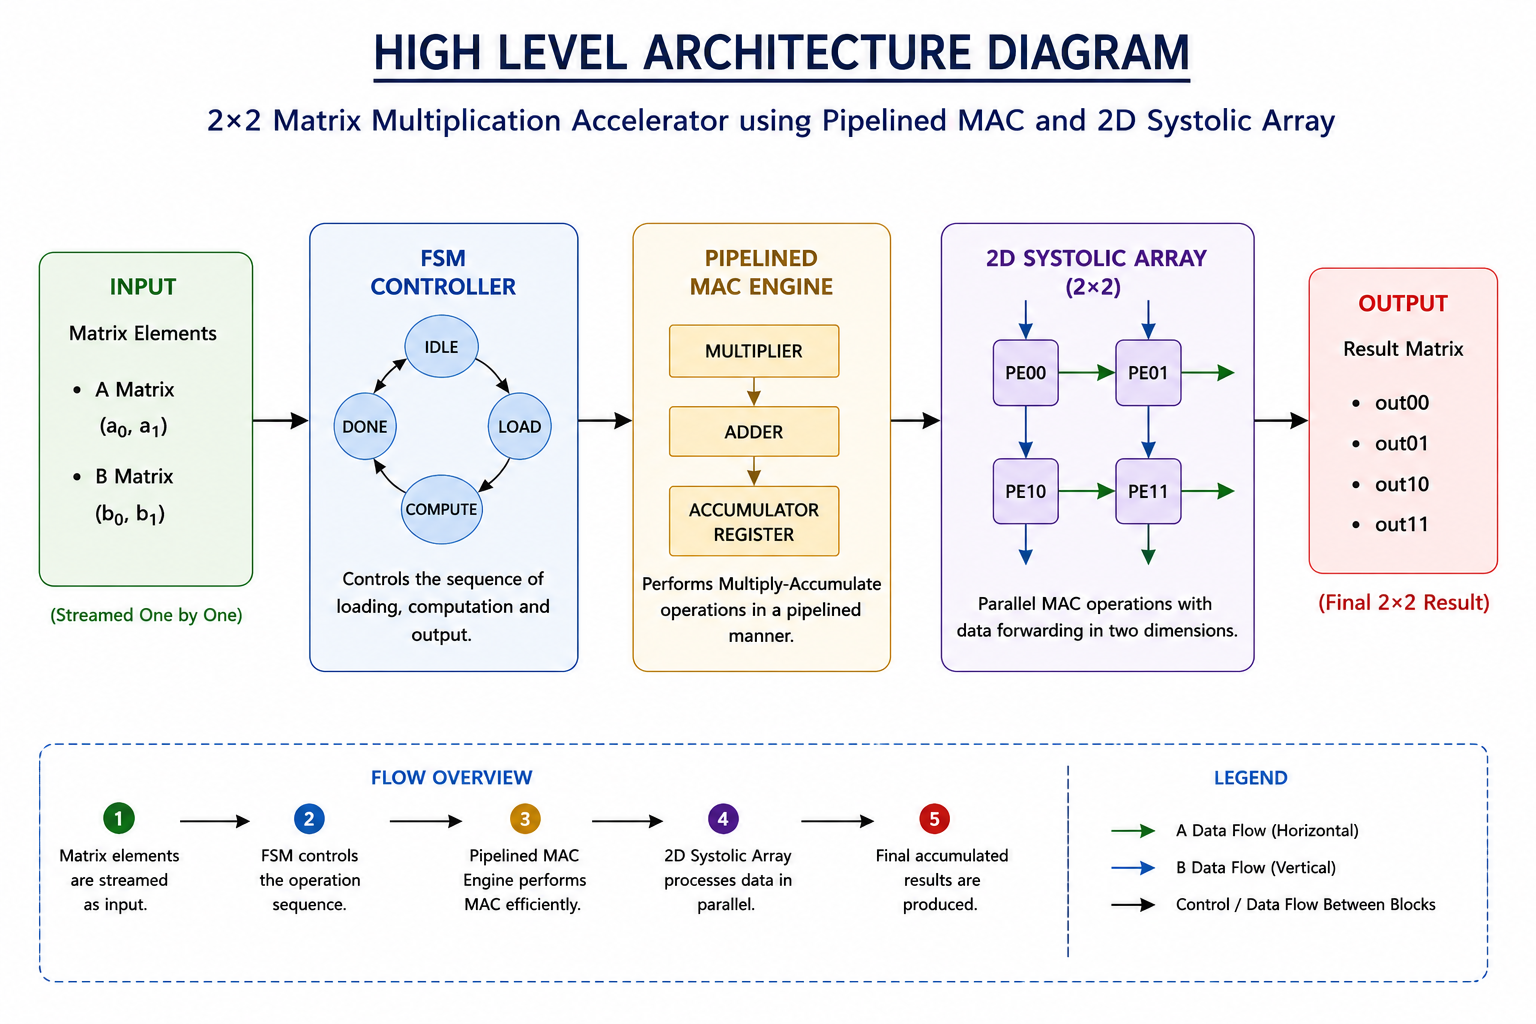
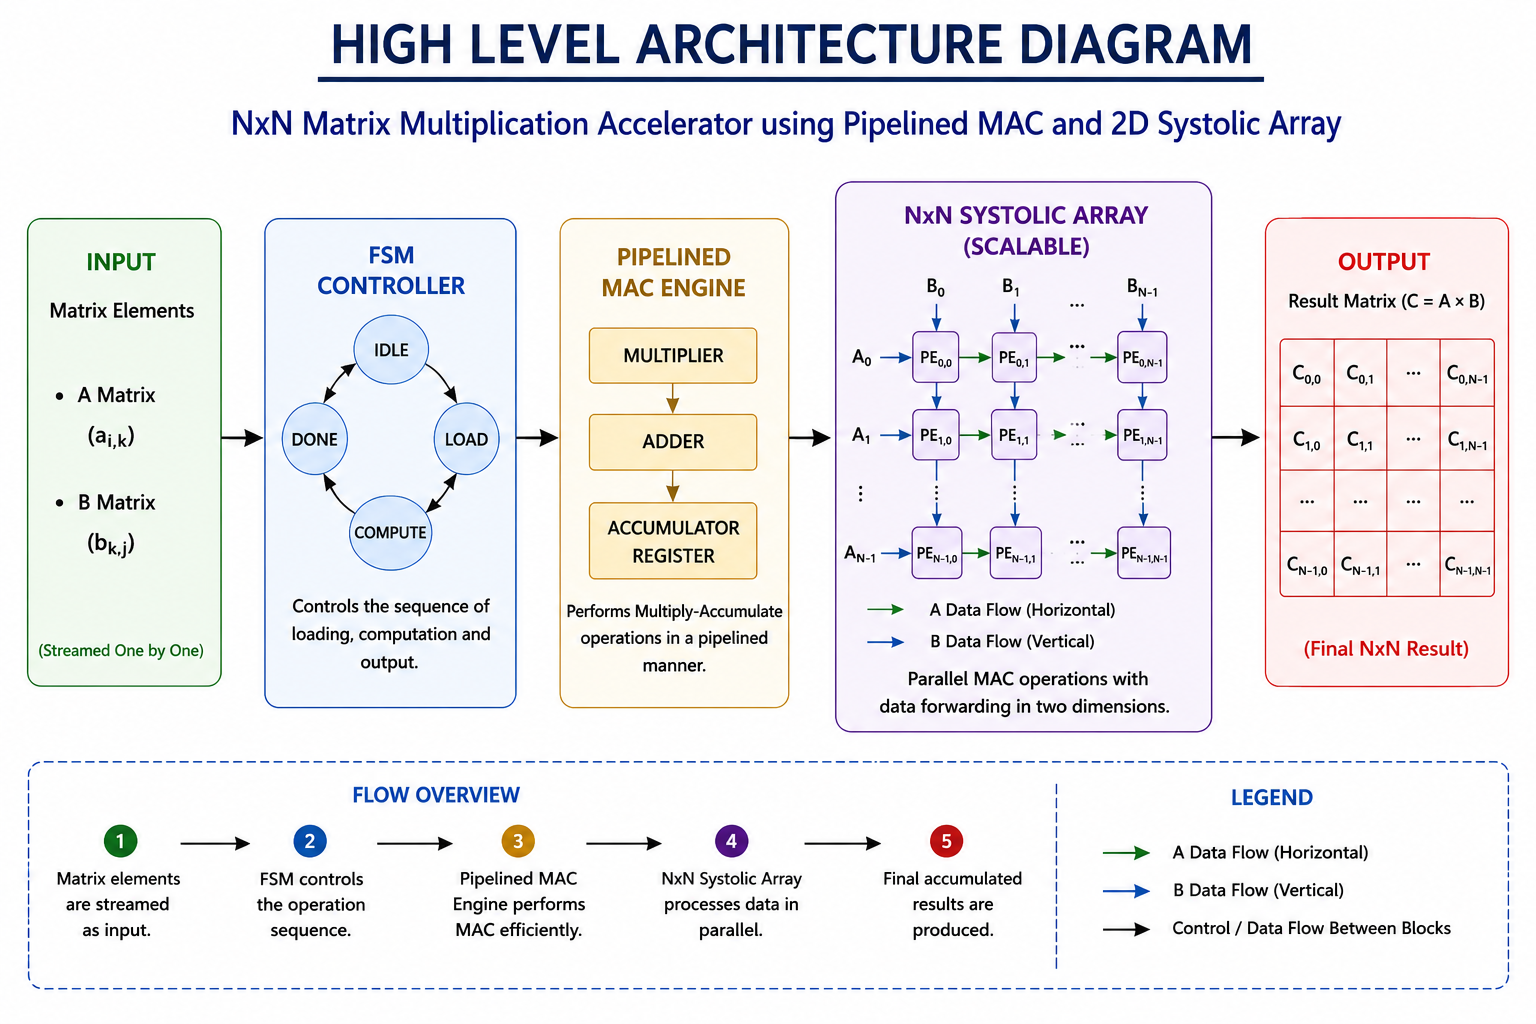
Upgraded project to parameterized NxN systolic array architecture

diff --git a/readme.md b/readme.md
@@ -1,8 +1,8 @@
-# Verilog RTL Based Pipelined 2D Systolic Array AI Accelerator
+# Verilog RTL Based Pipelined NxN Systolic Array AI Accelerator
 
 ## Overview
 
-This project is a Verilog-based hardware accelerator designed using a 2D systolic array architecture. The system performs matrix-style multiply-accumulate (MAC) operations using interconnected Processing Elements (PEs), pipelined computation, and FSM-based control logic.
+This project is a Verilog-based hardware accelerator designed using a parameterized NxN systolic array architecture. The system performs matrix-style multiply-accumulate (MAC) operations using interconnected Processing Elements (PEs), pipelined computation, and FSM-based control logic.
 
 The project demonstrates important frontend VLSI concepts such as:
 - RTL design
@@ -33,7 +33,7 @@ The architecture is inspired by modern AI accelerator concepts used in tensor pr
 
 ## Project Flow
 
-
+```text
 Input Matrix Elements
         ↓
 FSM Controller
@@ -45,12 +45,12 @@ Pipelined MAC Engine
 Distributed Accumulation
         ↓
 Output Results
-
+```
 
 ![High Level Architecture](docs/High_Level_Architecture.png)
 
 
-![Systolic Array Architecture](docs/Systolic_Array_Architecture.png)
+![NxN Systolic Array](docs/NxN_Systolic_Architecture.png)
 
 
 
@@ -60,6 +60,7 @@ Each Processing Element performs:
 
 1. Multiply-Accumulate (MAC) operation
 2. Data forwarding to neighboring PEs
+3. Partial sum accumulation
 
 MAC operation:
 
@@ -73,10 +74,12 @@ The PE also forwards input data horizontally and vertically through the systolic
 - Verilog HDL
 - Icarus Verilog
 - GTKWave
+- SystemVerilog Generate Loops
 
 
 ## Folder Structure
 
+```text
 project/
 │
 ├── rtl/
@@ -101,7 +104,7 @@ project/
 │   └── Systolic_Array_Architecture.png
 │
 └── README.md
-
+```
 
 ## Simulation and Verification
 
@@ -122,20 +125,38 @@ Waveforms were used to verify:
 
 ## Example Outputs
 
-For sample inputs:
+### Sample Inputs
 
-a0 = 2
-a1 = 3
+```text
+a_in[0] = 2
+a_in[1] = 3
 
-b0 = 4
-b1 = 5
+b_in[0] = 4
+b_in[1] = 5
+```
 
-Outputs obtained:
+### Outputs Obtained
 
-out00 = 8
-out01 = 18
-out10 = 12
-out11 = 27
+```text
+out[0][0] = 8
+out[0][1] = 18
+
+out[1][0] = 12
+out[1][1] = 27
+```
+
+
+## Waveform Results
+
+### Accumulation Flow Verification
+
+![Accumulation Flow](waveforms/Accumulation flow.png)
+
+### PE Dataflow Verification
+
+![PE Dataflow](waveforms/PE Dataflow.png)
+
+
 
 ## Future Improvements
 
@@ -150,3 +171,4 @@ Possible future upgrades:
 ## Conclusion
 
 This project demonstrates the implementation of a parameterized scalable NxN AI-oriented accelerator architecture using Verilog RTL. It combines pipelined MAC computation, scalable Processing Element (PE) mesh architecture, and systolic-array-based distributed processing to perform efficient matrix-style operations in hardware.
+
